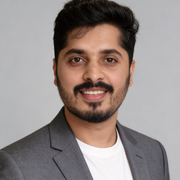
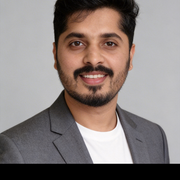
headshot

diff --git a/assets/css/custom.css b/assets/css/custom.css
@@ -1,6 +1,8 @@
 .sidebar__introduction-profileimage {
   width: 200px;
   height: 200px;
+  object-fit: cover;
+  object-position: top;
 }
 
 .sidebar__introduction-title::after {
